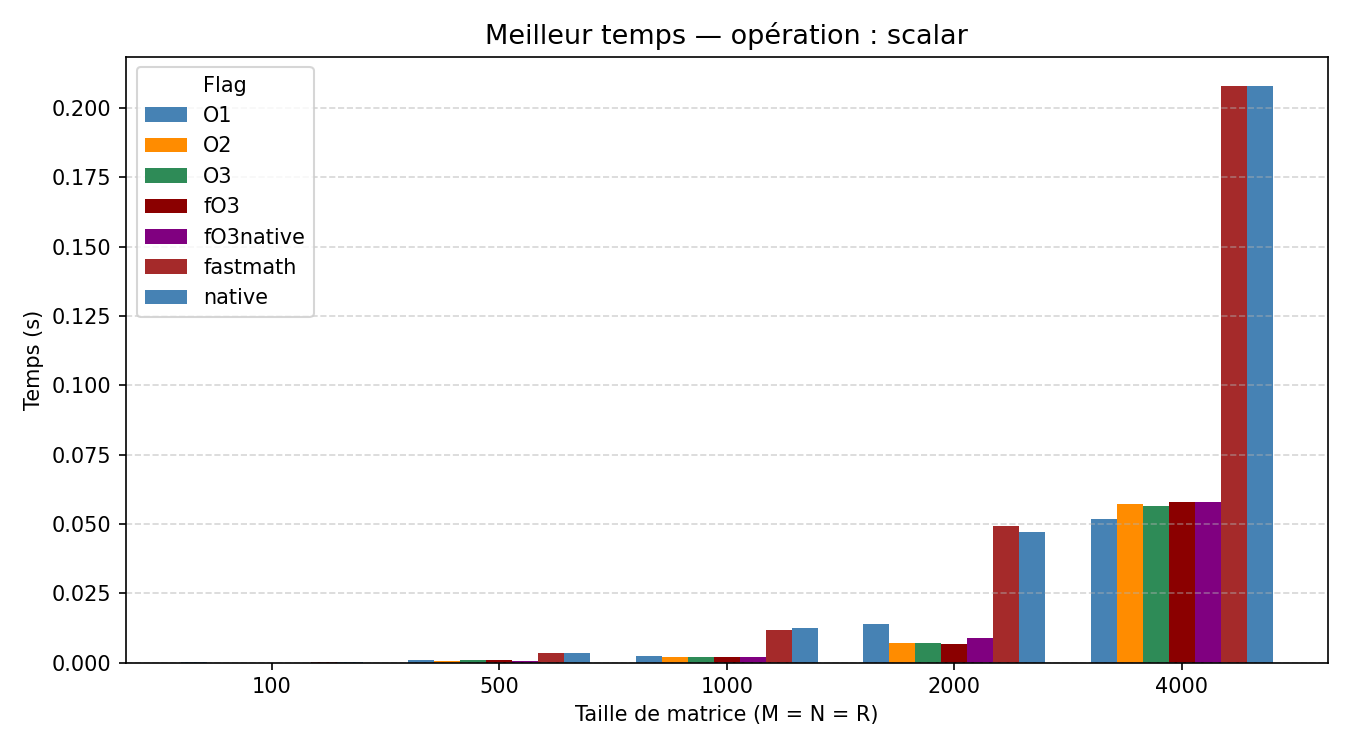
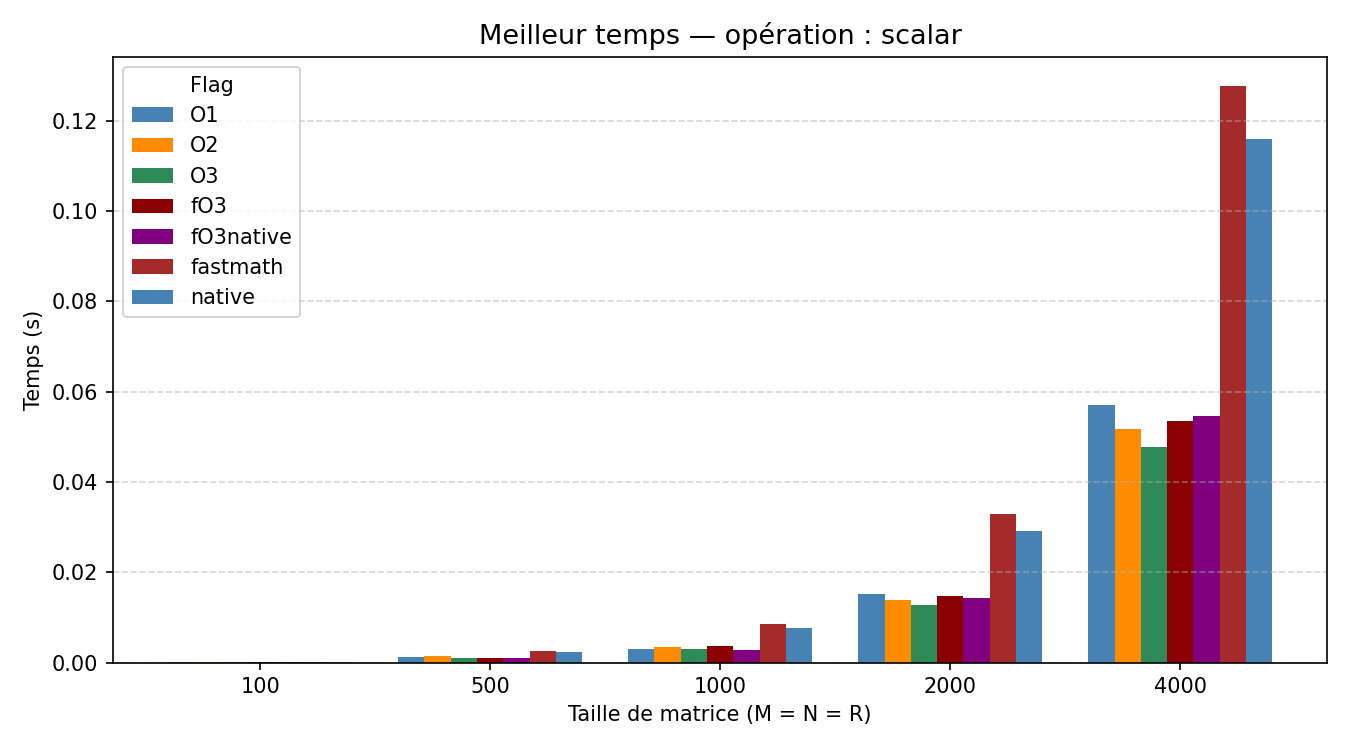
ça c'est bon

diff --git a/project/plot_part1.py b/project/plot_part1.py
@@ -4,7 +4,7 @@ import numpy as np
 import sys
 import os
 
-CSV_PATH = os.path.join(os.path.dirname(__file__), "csv", "mesures_perso_Mmatrix_smart.csv")
+CSV_PATH = os.path.join(os.path.dirname(__file__), "csv", "mesures_perso_on_server.csv")
 
 # --- Chargement ---
 df = pd.read_csv(CSV_PATH, skipinitialspace=True)
